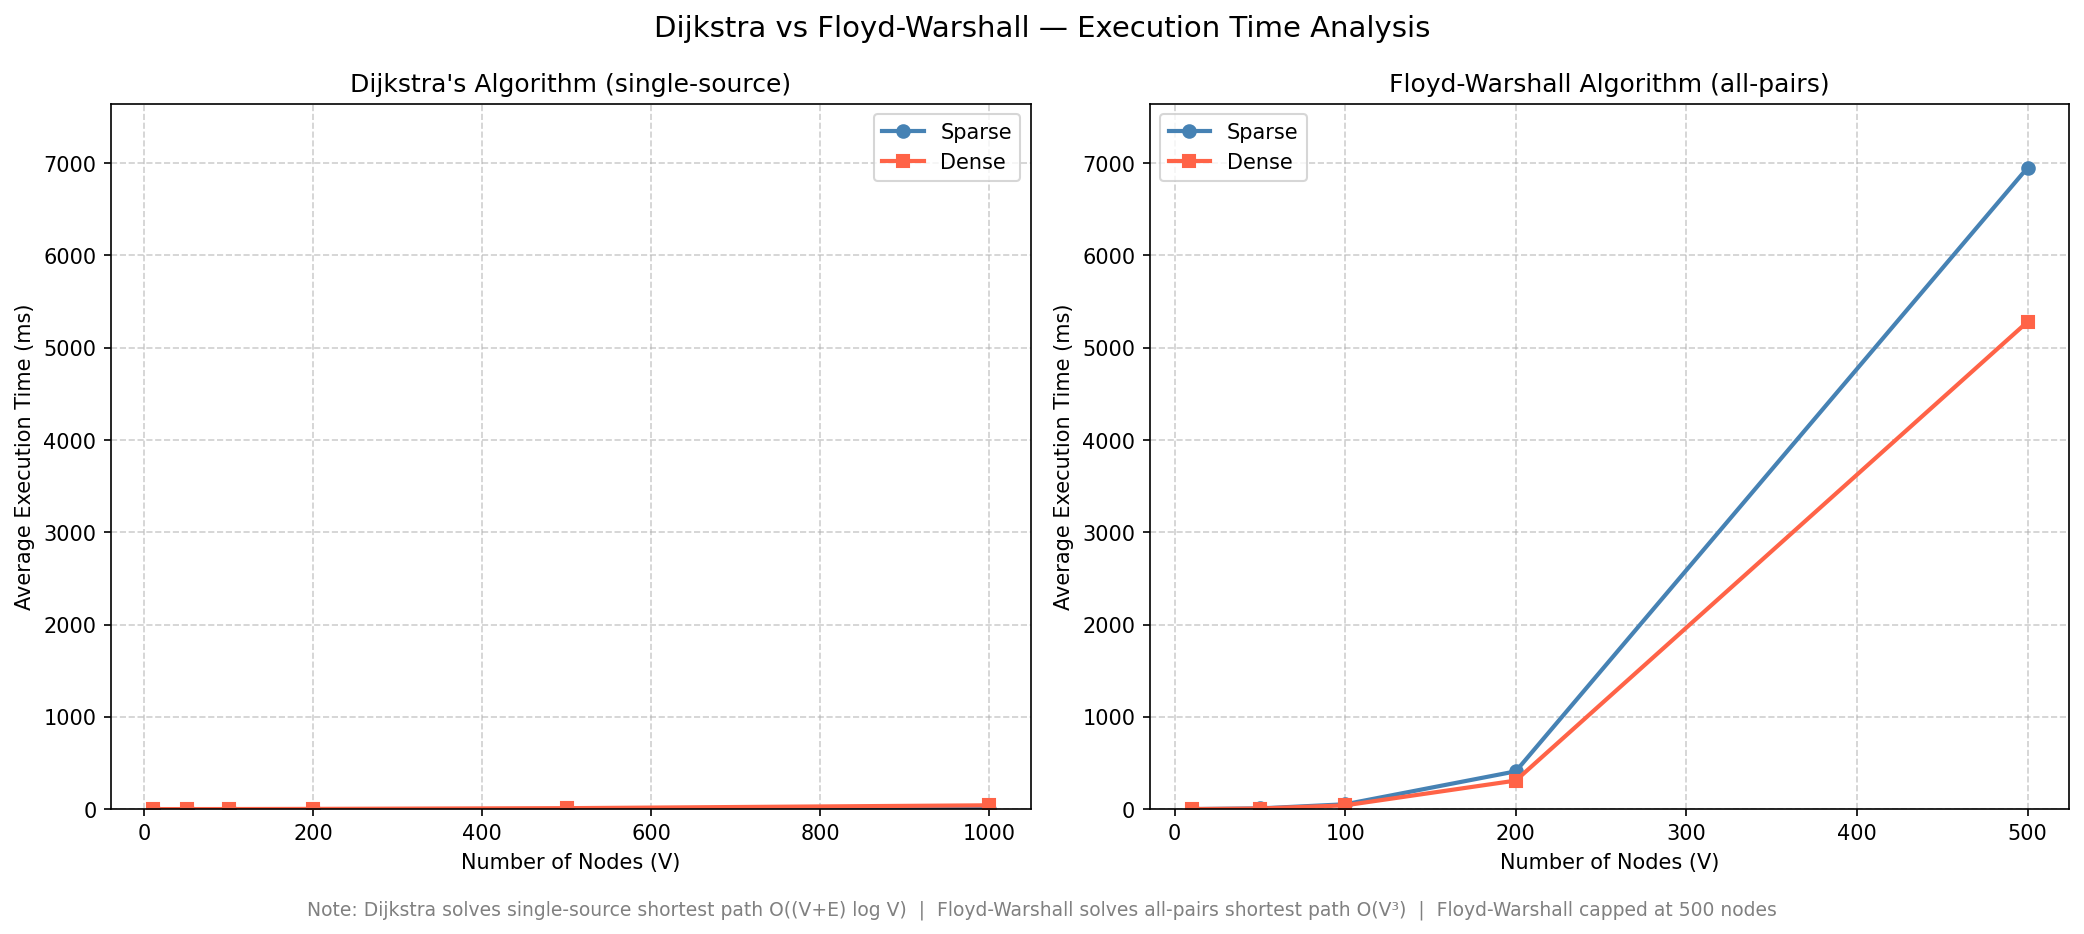
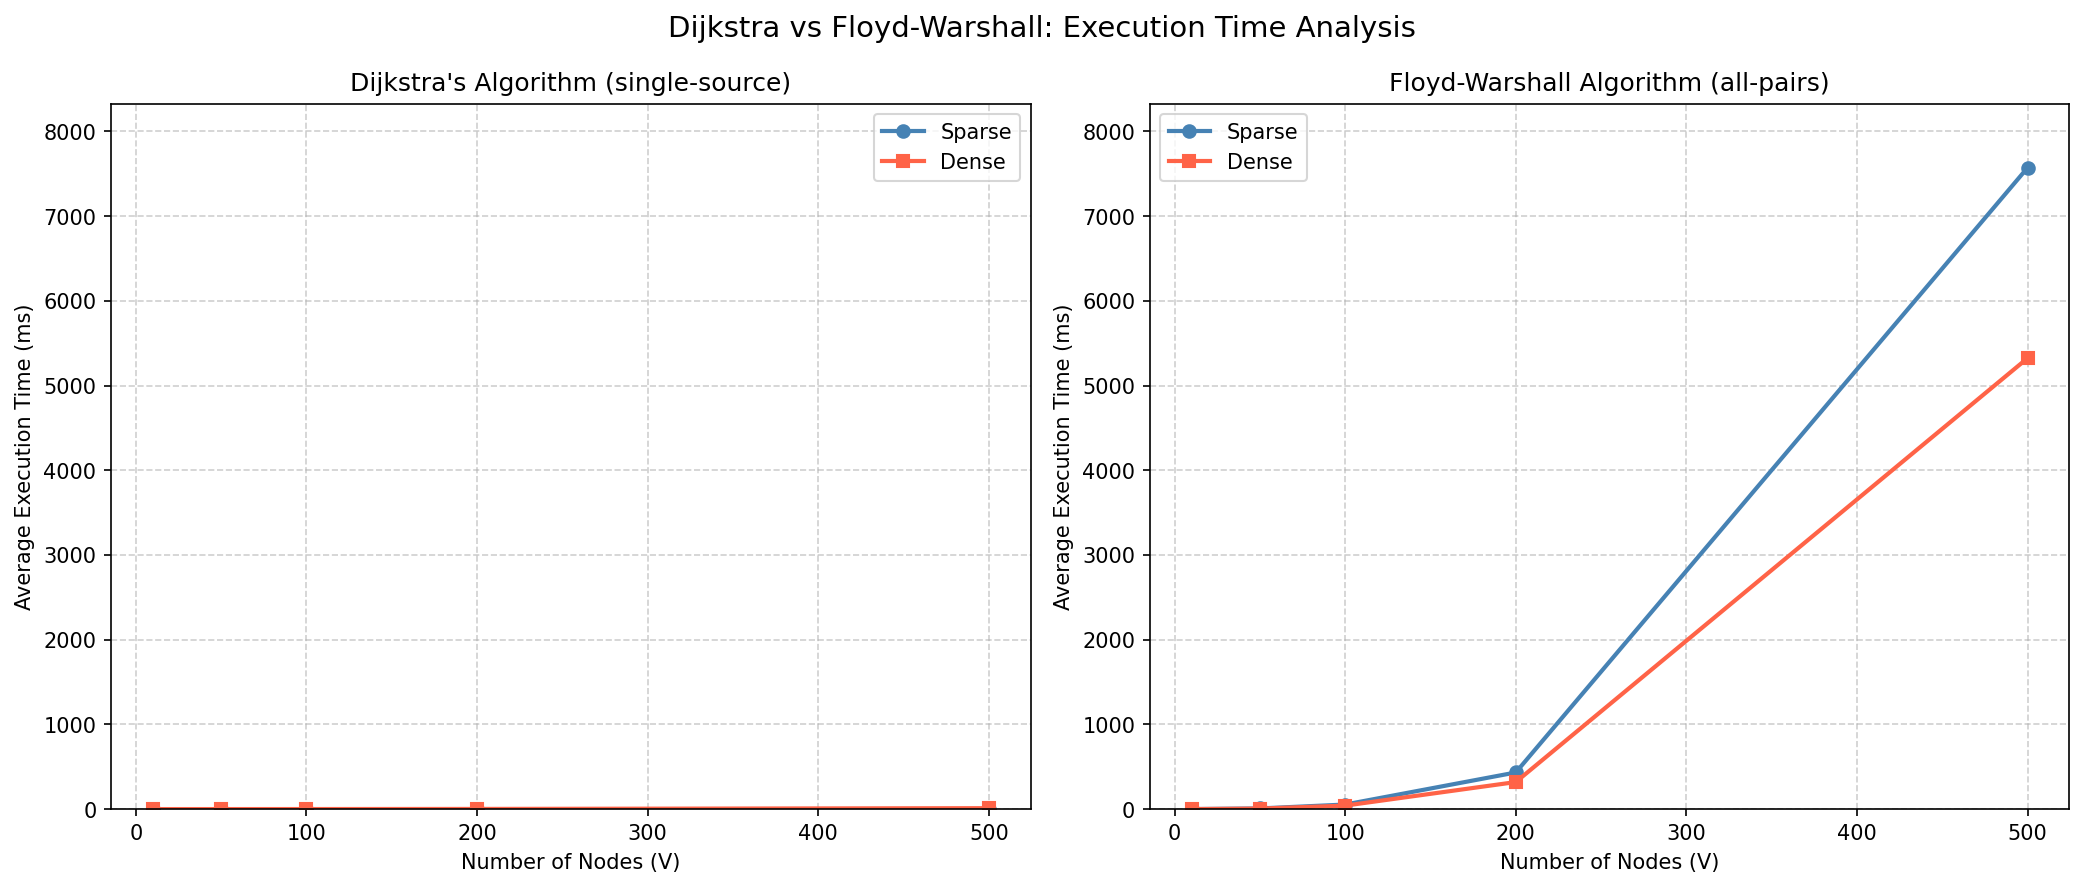
Refactor analysis algorithm

diff --git a/Lab4/analysis.py b/Lab4/analysis.py
@@ -71,16 +71,11 @@ def run_analysis():
 
 def plot_results(dijkstra_sparse, dijkstra_dense, floyd_sparse, floyd_dense):
 
-    all_values = (
-        dijkstra_sparse +
-        dijkstra_dense  +
-        floyd_sparse    +
-        floyd_dense
-    )
-    y_max = max(all_values) * 1.1  
+    all_values = dijkstra_sparse + dijkstra_dense + floyd_sparse + floyd_dense
+    y_max = max(all_values) * 1.1
 
-    fig, axes = plt.subplots(1, 2, figsize=(14, 6))
-    fig.suptitle("Dijkstra vs Floyd-Warshall: Execution Time Analysis", fontsize=14)
+    fig1, axes = plt.subplots(1, 2, figsize=(14, 6))
+    fig1.suptitle("Dijkstra vs Floyd-Warshall — Execution Time Analysis", fontsize=14)
 
     axes[0].plot(NODE_SIZES, dijkstra_sparse, marker='o',
                  label='Sparse', color='steelblue', linewidth=2)
@@ -104,7 +99,33 @@ def plot_results(dijkstra_sparse, dijkstra_dense, floyd_sparse, floyd_dense):
     axes[1].legend()
     axes[1].grid(True, linestyle='--', alpha=0.6)
 
+    fig1.text(
+        0.5, -0.02,
+        "Note: Dijkstra solves single-source shortest path O((V+E) log V)  |  "
+        "Floyd-Warshall solves all-pairs shortest path O(V³)  |  "
+        "Floyd-Warshall capped at 500 nodes",
+        ha='center', fontsize=9, color='gray'
+    )
+
     plt.tight_layout()
-    plt.savefig("analysis_results.png", dpi=150, bbox_inches='tight')
+    fig1.savefig("comparison_normalized.png", dpi=150, bbox_inches='tight')
     plt.show()
-    print("\nGraph saved as analysis_results.png")
+
+    fig2, ax = plt.subplots(figsize=(9, 6))
+
+    ax.plot(NODE_SIZES, dijkstra_sparse, marker='o',
+            label='Sparse', color='steelblue', linewidth=2)
+    ax.plot(NODE_SIZES, dijkstra_dense,  marker='s',
+            label='Dense',  color='tomato',    linewidth=2)
+
+    ax.set_title("Dijkstra's Algorithm — Execution Time vs Number of Nodes", fontsize=13)
+    ax.set_xlabel("Number of Nodes (V)", fontsize=11)
+    ax.set_ylabel("Average Execution Time (ms)", fontsize=11)
+    ax.legend(fontsize=11)
+    ax.grid(True, linestyle='--', alpha=0.6)
+
+    plt.tight_layout()
+    fig2.savefig("dijkstra_standalone.png", dpi=150, bbox_inches='tight')
+    plt.show()
+
+    print("\nGraphs saved as comparison_normalized.png and dijkstra_standalone.png")
